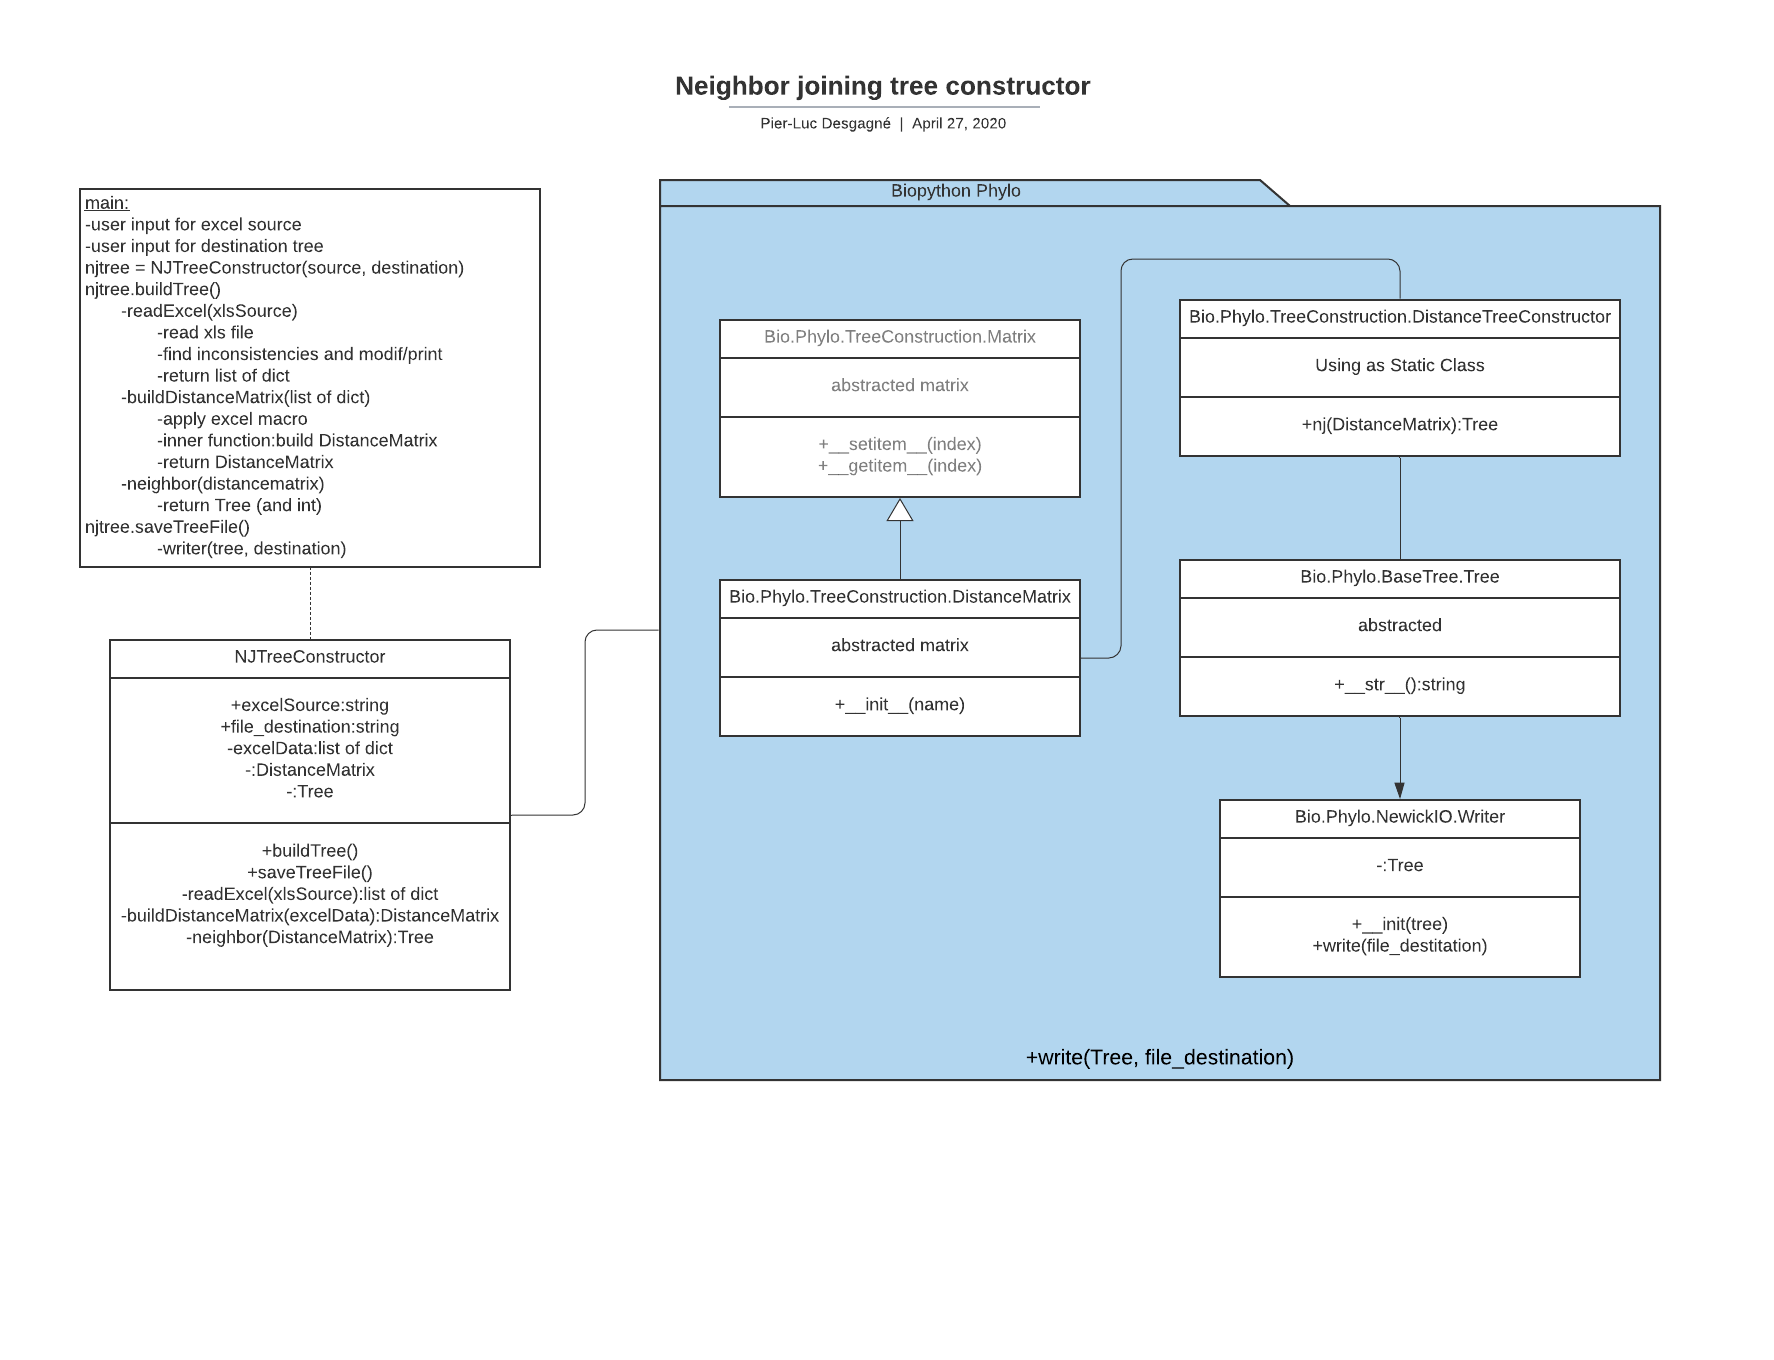
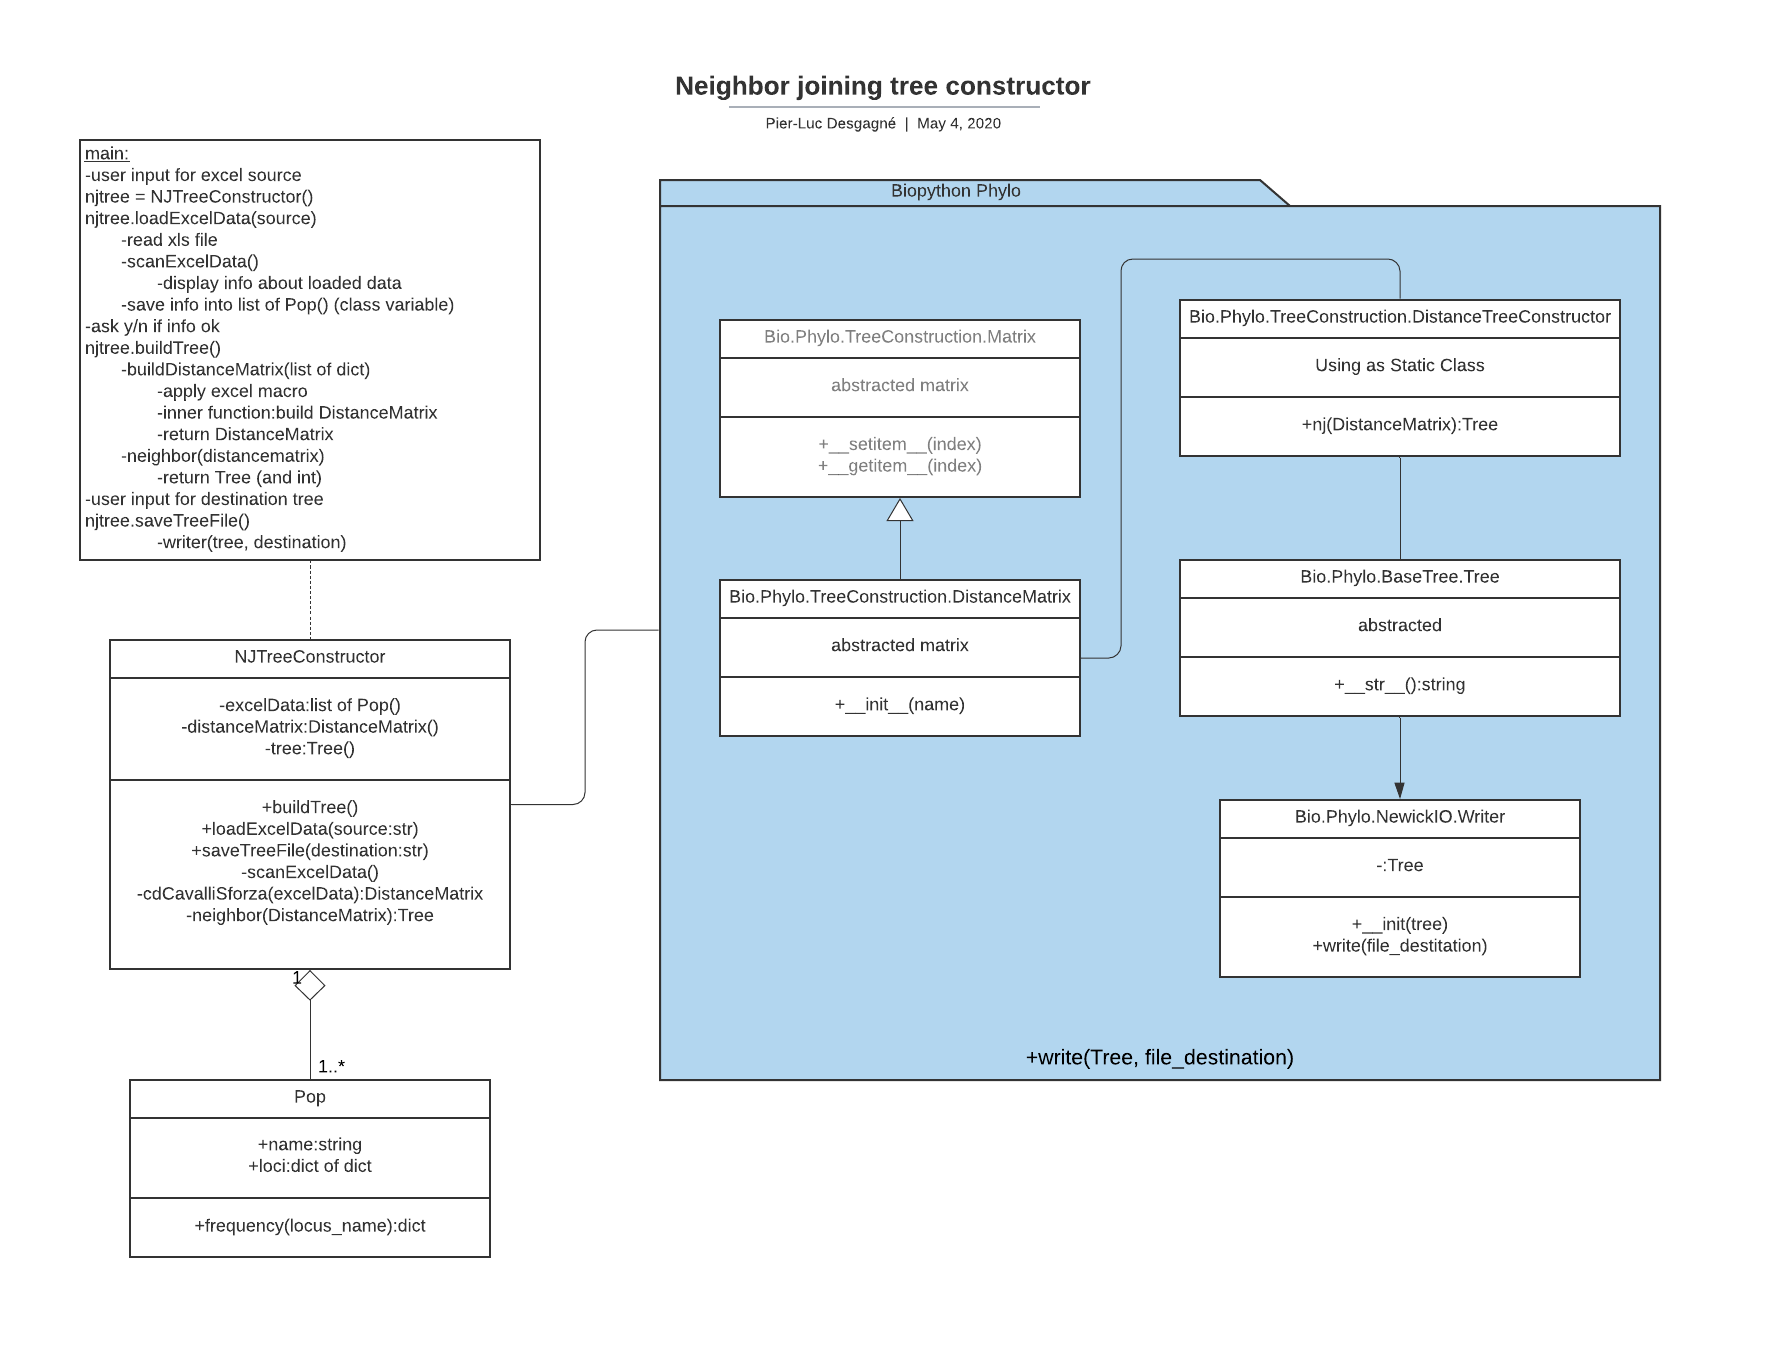
Added documentation and builded the main structure

diff --git a/VNTR_NJtree.py b/VNTR_NJtree.py
@@ -5,18 +5,197 @@ Created on Mon Apr 27 22:39:15 2020
 @author: pldesgagne
 
 Description:
-    Blah
+    Blah # TODO
 """
-
-if __name__ == '__main__':
-    pass
 
 
 class NJTreeConstructor():
+    """
+    # TODO
+    """
+    def __init__(self):
+
+        self.excelData = None
+        self.distanceMatrix = None
+        self.tree = None
+        
     
-    def __init__(source, destination):
+    def loadExcelData(self, source:str):
         """
+        Load the data from excel sheet into a list of Pop()
+        which contains name, locus, alleles for each samples.
+        Saves results into class variable self.excelData
+        
+        Input:
+            source: file name and address for the file containing the samples
+                name and their allele value for each locus.
+                format in each colomn should be:
+                    names locus values # headers
+                    name locus1 value1
+                    name locus2 value2
+                    
+        Returns
+            None.
         """
+        # try reading file if it exist
+        # load data into list of pop then into self.excelData
+        # scan the data
+        
         pass
     
+    def __scanExcelData(self, data):
+        """
+        Parse the excel data and show different information which may help the
+        user find potential error in the provided excel files such as typos in
+        names or wrong sample number.
+        
+        Input:
+            data: the data to be scanned in format [Pop()]
+            
+        Returns
+            None.
+        """
+        # find inconsistencies and print a warning (compare loci names)
+        # print a data feed back (number of samples, loci etc):
+        # number of samples loaded.
+        # list of loci names and their relative count
+        # max number of  of a single loci
+            # locus names are lowered to prevent cap typos
+        # pop with less than 4 loci (potential typo in pop name)
+        pass # TODO
     
+    def saveTreeFile(self, destination:str):
+        """
+        Save the tree data into self.destination file .___ # TODO
+        
+        Input:
+            destination: file name and address for the tree file created by
+                this script.
+                
+        Returns
+            None.
+        """
+        pass # TODO
+    
+    def buildTree(self, data=None):
+        """
+        Takes the VNTR data and return a Neighbor-Joining tree.
+        Uses the Cavalli-Sforza chord distance formula to create a distance
+        matrix then the Biopython Phylo package to build the neighbor tree
+        
+        Input:
+            data (optionnal): the VNTR data to be analysed. If none is passed,
+                the self.excelData from the instance is used.
+        
+        Returns
+            Tree from the Biopython Phylo BaseTree module.
+        """
+        # verify if excel data is loaded / raise error otherwise
+        if data is None and self.excelData:
+            data = self.excelData
+        else:
+            raise AttributeError('No data was loaded into instance.')    
+            
+        # Calculate the distance matrix from the loaded data
+        self.distanceMatrix = self.__cdCavalliSforza(data)
+        # Build the tree from the distance matrix
+        self.tree = self.__neighbor(self.distanceMatrix)
+        
+    
+    def __cdCavalliSforza(self, data):
+        """
+        Build a distance matrix with the VNTR data.
+        Uses the Cavalli-Sforza chord distance formula.
+        
+        Input:
+            data: the VNTR data loaded by the loadExcelData method.
+            
+        Return:
+            DistanceMatrix from the Biopython Phylo TreeConstruction module
+        """
+        pass # TODO
+    
+    def __neighbor(self, matrix):
+        """
+        Apply the neighbor joining algo on a distance matrix and returns 
+        a tree
+
+        Input:
+            matrix : DistanceMatrix from the Biopython Phylo TreeConstruction 
+                module
+
+        Returns
+            Tree from the Biopython Phylo BaseTree module
+        """
+        pass # TODO
+    
+    
+class Pop():
+    """
+    Representation of a single sample.
+    Attributes:
+            name: Name of sample in string format
+            loci: a dict of each locus name containing alleles values.
+                {loci_name:{allele_value:count,},}
+    """
+    def __init__(self, name):
+        """
+        Input:
+            name: Name of sample in string format.
+        """
+        self.name = name
+        self.loci = {} # dict {name:{allele:count,},}
+        
+    def addLocus(self, locus:str, allele:int):
+        """
+        Adds the locus and the allele value in the loci dict.
+        If the allele is already present for that loci, +1 to count.
+        """
+        if locus not in self.loci:
+            self.loci[locus] = {allele:1}
+        elif allele in self.loci[locus]:
+            self.loci[locus][allele] += 1
+        else:
+            self.loci[locus][allele] = 1
+    
+    def frequency(self, locus):
+        """
+        Return a dict {allele:frequency} of the frequency of each allele
+        for the specified locus.
+        
+        Ex.: for 3 alleles {650:2, 720:1} => {650:0.6666, 720:0.3333} 
+        (Divides the count of each allele by the total number of allele for
+        the specified loci.)
+        """
+        nb_allele = 0
+        for allele in self.loci[locus]:
+            nb_allele += self.loci[locus][allele]
+        return {i:(self.loci[locus][i]/nb_allele) for i in self.loci[locus]}
+
+def testUnit():
+    sample = Pop('R1105')
+    sample.addLocus('Tr1', 650)
+    sample.addLocus('Tr1', 650)
+    sample.addLocus('Tr1', 720)
+    sample.addLocus('Tr2', 150)
+    # assert test_bool, "Test failed comment"
+    # print("All test passed")
+
+# =============================================================================
+# if __name__ == '__main__':
+#     
+#     njtree = NJTreeConstructor()
+#     source = input("Enter the excel file name: ")
+#     njtree.loadExcelData(source)
+#     query = input('Is the displayed information correct? [y/n] ')
+#     if query.lower() != 'y':
+#         print('\nCancelling...')
+#         input('Press Enter to exit.')
+#     else:
+#         njtree.buildTree()
+#         print('Neighbor-Joining tree constructed.')
+#         destination = input('Enter a name for the tree file: ')
+#         njtree.saveTreeFile(destination)
+#         print('Tree saved!')
+#         input('Press Enter to exit.')
+# =============================================================================
